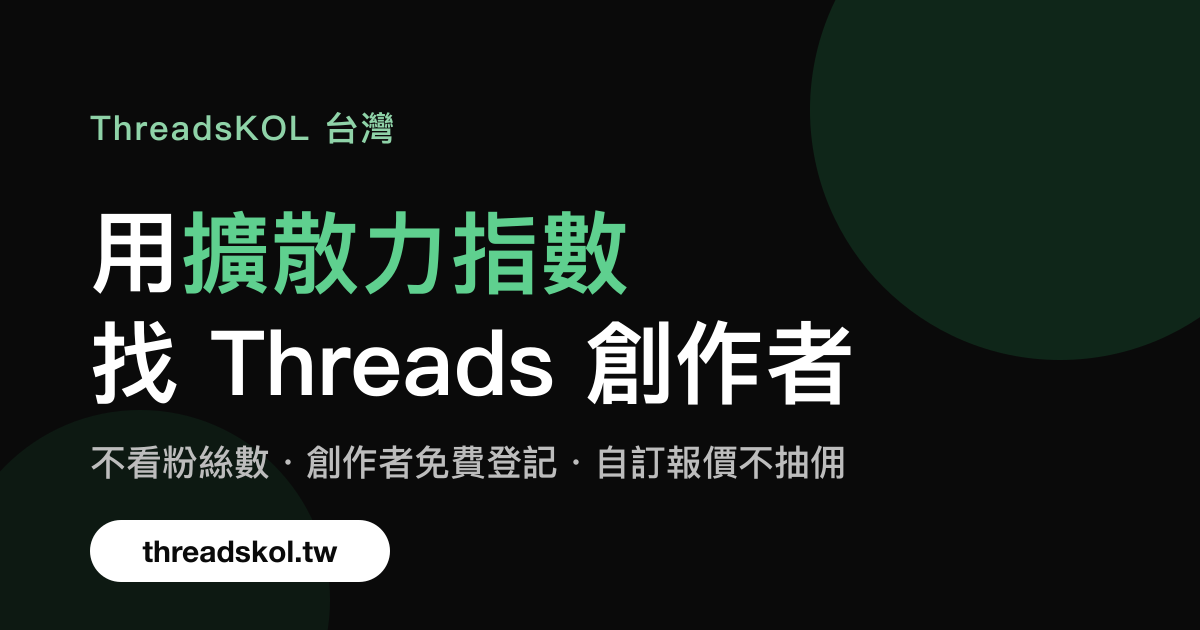
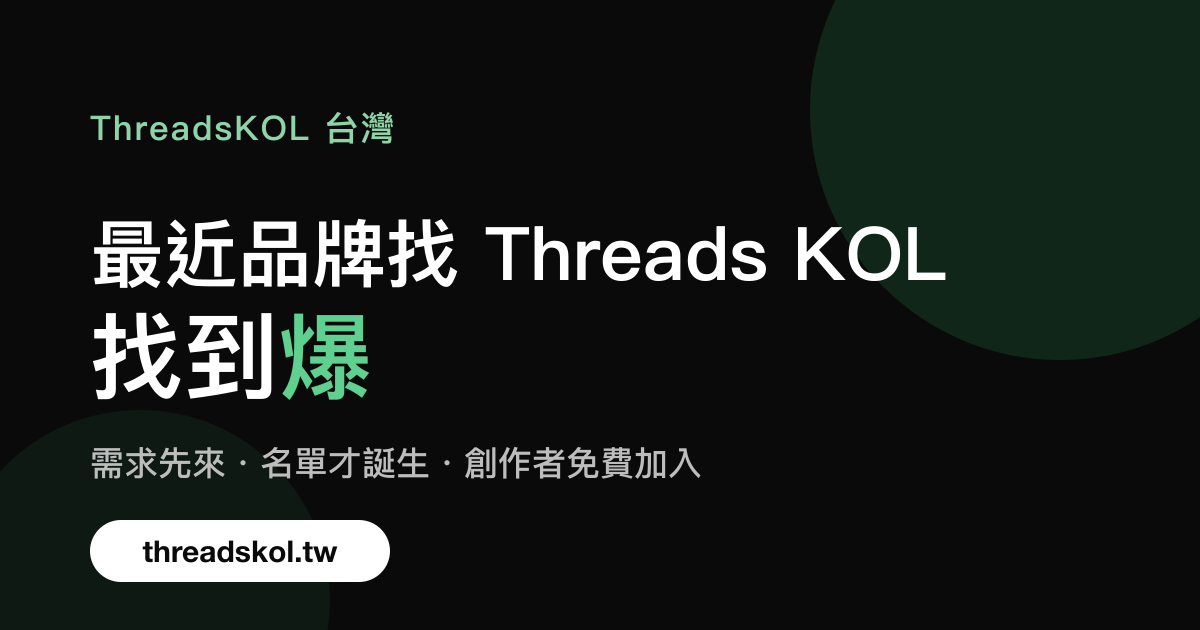
Turn real KOL demand into the site's primary story
Reframe the homepage around the real reason ThreadsKOL exists: brand requests grew beyond one-person handling, so the demand is being organized into a creator list. Keep the creator registration path primary, clarify the brand intake path, and align the social preview image with the new narrative.\n\nConstraint: The site is in a creator-first cold-start phase while retaining a brand intake path\nRejected: Keep the brand-first hero | it hides the demand-led origin and weakens the creator CTA\nConfidence: high\nScope-risk: narrow\nDirective: Keep demand, creator counts, and partnership claims grounded in current records\nTested: Local HTTP preview, full accessibility snapshot, OG image render, git diff --check\nNot-tested: Production CDN deployment state

Changed region(s): [[0.0617, 0.3317, 0.8017, 0.6333], [0.0617, 0.6937, 0.7092, 0.7841], [0.4933, 0.5127, 0.7092, 0.6635]]

diff --git a/index.html b/index.html
@@ -3,8 +3,8 @@
 <head>
 <meta charset="utf-8">
 <meta name="viewport" content="width=device-width,initial-scale=1">
-<title>Threads 業配與 KOL 合作名單｜用擴散力指數找創作者｜ThreadsKOL 台灣</title>
-<meta name="description" content="找 Threads 業配、Threads KOL 合作的台灣名單。ThreadsKOL 用擴散力指數（近 20 篇平均瀏覽）幫創作者定價，創作者免費登記、自訂報價、不抽佣，品牌依領域與預算找到合適帳號。">
+<title>ThreadsKOL 台灣｜最近品牌找 Threads KOL 找到爆</title>
+<meta name="description" content="最近品牌找 Threads KOL 的需求變多，ThreadsKOL 把真實需求整理成台灣創作者名單，用擴散力指數（近 20 篇平均瀏覽）找對合作對象。創作者免費登記、不抽佣。">
 <meta name="keywords" content="Threads 業配,Threads KOL,Threads 創作者,網紅合作,業配報價,KOL 名單,擴散力指數">
 <meta name="robots" content="index,follow">
 <meta name="theme-color" content="#0a0a0a">
@@ -12,16 +12,16 @@
 <meta property="og:type" content="website">
 <meta property="og:locale" content="zh_TW">
 <meta property="og:site_name" content="ThreadsKOL 台灣">
-<meta property="og:title" content="ThreadsKOL 台灣｜用擴散力指數找 Threads 創作者">
-<meta property="og:description" content="不看粉絲數，看近 20 篇平均瀏覽。創作者免費登記、自訂報價、不抽佣；品牌依領域與預算找到對的 Threads 帳號。">
+<meta property="og:title" content="最近品牌找 Threads KOL 找到爆｜ThreadsKOL 台灣">
+<meta property="og:description" content="需求先來，名單才誕生。把品牌找 KOL 的真實需求整理成台灣 Threads 創作者名單。">
 <meta property="og:url" content="https://threadskol.tw/">
 <meta property="og:image" content="https://threadskol.tw/og-image.png">
 <meta property="og:image:width" content="1200">
 <meta property="og:image:height" content="630">
 <meta property="og:image:alt" content="ThreadsKOL 台灣：用擴散力指數找 Threads 創作者">
 <meta name="twitter:card" content="summary_large_image">
-<meta name="twitter:title" content="ThreadsKOL 台灣｜用擴散力指數找 Threads 創作者">
-<meta name="twitter:description" content="不看粉絲數，看近 20 篇平均瀏覽。創作者免費登記、自訂報價、不抽佣；品牌依領域與預算找到對的 Threads 帳號。">
+<meta name="twitter:title" content="最近品牌找 Threads KOL 找到爆｜ThreadsKOL 台灣">
+<meta name="twitter:description" content="需求先來，名單才誕生。把品牌找 KOL 的真實需求整理成台灣 Threads 創作者名單。">
 <meta name="twitter:image" content="https://threadskol.tw/og-image.png">
 <script type="application/ld+json">
 {
@@ -63,7 +63,7 @@
     "@type": "Country",
     "name": "台灣"
    },
-   "description": "依擴散力指數（近 20 篇平均瀏覽）、領域與預算，為品牌推薦台灣 Threads 創作者。創作者免費登記、自訂報價、不抽佣。"
+   "description": "因品牌找 Threads KOL 的需求增加而建立的台灣創作者名單，依擴散力指數（近 20 篇平均瀏覽）、領域與預算推薦合作對象。創作者免費登記、不抽佣。"
   },
   {
    "@type": "FAQPage",
@@ -138,12 +138,12 @@
 
 <main>
 <div class="wrap hero">
-  <div class="eyebrow">Threads Creator Marketing · Taiwan</div>
-  <h1>品牌找 Threads 創作者，<br>第一份報價透明的台灣名單</h1>
-  <p class="lead">Threads 是台灣現在漲最快的平台，品牌想合作卻找不到人、不知道行情。ThreadsKOL 收錄經核驗的台灣 Threads 創作者，用「擴散力指數」而不是粉絲數定價，讓品牌一眼看懂誰真的有觸及。</p>
+  <div class="eyebrow">需求先來，名單才誕生</div>
+  <h1>最近品牌找 Threads KOL 找到爆，<br>所以我把需求整理成台灣創作者名單</h1>
+  <p class="lead">最近一直有人問我：「有沒有適合合作的 Threads KOL？」手上的需求多到一個人處理不完，所以我把它整理成 ThreadsKOL：收錄並核驗台灣創作者，用近 20 篇平均瀏覽判斷擴散力，讓品牌找得到人，也讓創作者多一個被找到的機會。</p>
   <div class="cta-row">
-    <a class="btn big" href="./register.html">我是創作者，免費登記</a>
-    <a class="btn big ghost" href="./brand.html">我是品牌，我要找人</a>
+    <a class="btn big" href="./register.html">創作者免費加入名單</a>
+    <a class="btn big ghost" href="./brand.html">我是品牌，留下需求</a>
   </div>
   <ul class="pills">
     <li>免費登記 · 不抽佣</li>
@@ -153,14 +153,24 @@
   </ul>
 </div>
 
+<section id="origin"><div class="wrap">
+  <div class="eyebrow">為什麼會有 ThreadsKOL</div>
+  <h2>不是先做平台，是先被需求追著跑</h2>
+  <p class="sub">原本有人來問 Threads 創作者、瀏覽量和業配行情，我都是一個個找、一個個配。當詢問開始變多，與其讓每次合作都從零開始，不如把真實需求整理起來，讓品牌和創作者都更快遇到對的人。</p>
+  <div class="compare">
+    <div class="card"><h3>原本的狀況</h3><p>品牌有需求，卻不知道去哪裡找 Threads 創作者，也不知道粉絲數之外該看什麼。</p></div>
+    <div class="card good"><h3>所以我開始做這份名單</h3><p>先收集創作者，再依領域、擴散力指數和報價整理，讓下一次品牌詢問不用重新從零開始。</p></div>
+  </div>
+</div></section>
+
 <section id="get"><div class="wrap">
-  <div class="eyebrow">登記後你將獲得</div>
-  <h2>把你的 Threads 帳號變成可以接案的資產</h2>
+  <div class="eyebrow">創作者現在加入的理由</div>
+  <h2>把這波真實需求，變成你的合作機會</h2>
   <div class="grid">
-    <div class="card"><div class="n">01</div><h3>品牌主動找上門</h3><p>名單只對品牌與行銷公司開放。條件符合的合作案會直接轉給你，不用自己到處私訊。</p></div>
+    <div class="card"><div class="n">01</div><h3>進入創作者名單</h3><p>名單只對品牌與行銷公司開放。符合條件的合作需求會從這裡開始配對。</p></div>
     <div class="card"><div class="n">02</div><h3>報價由你決定</h3><p>單篇、串文、引用回覆各自填一個價，全程不抽佣。行情變了隨時寄信更新。</p></div>
     <div class="card"><div class="n">03</div><h3>用擴散力指數說話</h3><p>Threads 的擴散靠演算法不靠粉絲數。我們看你的擴散力指數，小帳號也能拿到該有的價格。</p></div>
-    <div class="card"><div class="n">04</div><h3>多平台一起談</h3><p>有 Instagram、YouTube、LINE 社群的話一起登記，品牌常常會打包下單。</p></div>
+    <div class="card"><div class="n">04</div><h3>累積自己的行情資料</h3><p>累積足夠資料後，我會把各擴散力級距的報價區間回饋給已登記的創作者。</p></div>
   </div>
   <div class="stats">
     <div class="stat"><b>首批</b><small>創作者招募中，目標 100 位</small></div>
@@ -181,13 +191,13 @@
 </div></section>
 
 <section id="flow"><div class="wrap">
-  <div class="eyebrow">合作流程</div>
-  <h2>四步完成一次 Threads 合作</h2>
+  <div class="eyebrow">需求怎麼變成合作</div>
+  <h2>從一次品牌詢問，到一次 Threads 合作</h2>
   <div class="steps">
-    <div class="step"><h3>提交登記</h3><p>填 Threads 帳號、擴散力指數、領域與報價，兩分鐘完成。</p></div>
-    <div class="step"><h3>資料核驗</h3><p>對照你的公開主頁與近期貼文瀏覽數，1 至 3 個工作天回覆。</p></div>
-    <div class="step"><h3>需求配對</h3><p>品牌提需求，我們依領域、擴散力指數與預算推薦名單，聯絡方式在你同意後才交出。</p></div>
-    <div class="step"><h3>發文與回報</h3><p>確認檔期與內容方向，發布後回收瀏覽、互動數據給品牌。</p></div>
+    <div class="step"><h3>品牌留下需求</h3><p>提供產品、想找的領域、預算與上線時間，不用自己從零找人。</p></div>
+    <div class="step"><h3>我整理合適名單</h3><p>依領域、擴散力指數與報價篩選，先看真實觸及，再看粉絲數。</p></div>
+    <div class="step"><h3>創作者加入與核驗</h3><p>填 Threads 帳號、瀏覽數、領域與報價，對照公開主頁後完成核驗。</p></div>
+    <div class="step"><h3>雙方同意再聯繫</h3><p>有具體合作案時再確認檔期與內容，聯絡方式不會直接公開。</p></div>
   </div>
 </div></section>
 
@@ -213,8 +223,8 @@
 </div></section>
 
 <section class="final"><div class="wrap">
-  <h2>準備好讓品牌找到你了嗎？</h2>
-  <p class="sub" style="margin-inline:auto">填一次資料，長期收到台灣品牌的 Threads 合作邀約。報價以新台幣計，隨時可以更新。</p>
+  <h2>你有觸及，我有需求入口</h2>
+  <p class="sub" style="margin-inline:auto">如果你在 Threads 上持續被看到，先免費加入名單；品牌有需求時，我來幫你把合適的機會接上。</p>
   <div class="cta-row" style="justify-content:center">
     <a class="btn big" href="./register.html">免費登記</a>
     <a class="btn big ghost" href="./brand.html">品牌合作諮詢</a>
@@ -224,7 +234,7 @@
 
 <footer><div class="wrap">
   <div class="cols">
-    <div><b style="color:var(--fg)">ThreadsKOL 台灣</b><br>收錄並核驗台灣 Threads 優質創作者，用擴散力指數幫品牌找到對的人。</div>
+    <div><b style="color:var(--fg)">ThreadsKOL 台灣</b><br>因品牌需求而建立的台灣 Threads 創作者名單，用擴散力指數幫品牌找到對的人。</div>
     <div><b style="color:var(--fg)">快速連結</b><ul><li><a href="./">平台首頁</a></li><li><a href="./register.html">創作者登記</a></li><li><a href="./brand.html">品牌合作</a></li></ul></div>
     <div><b style="color:var(--fg)">聯絡我們</b><ul><li>Email：<a href="mailto:austin@aeltech.network">austin@aeltech.network</a></li></ul></div>
   </div>
